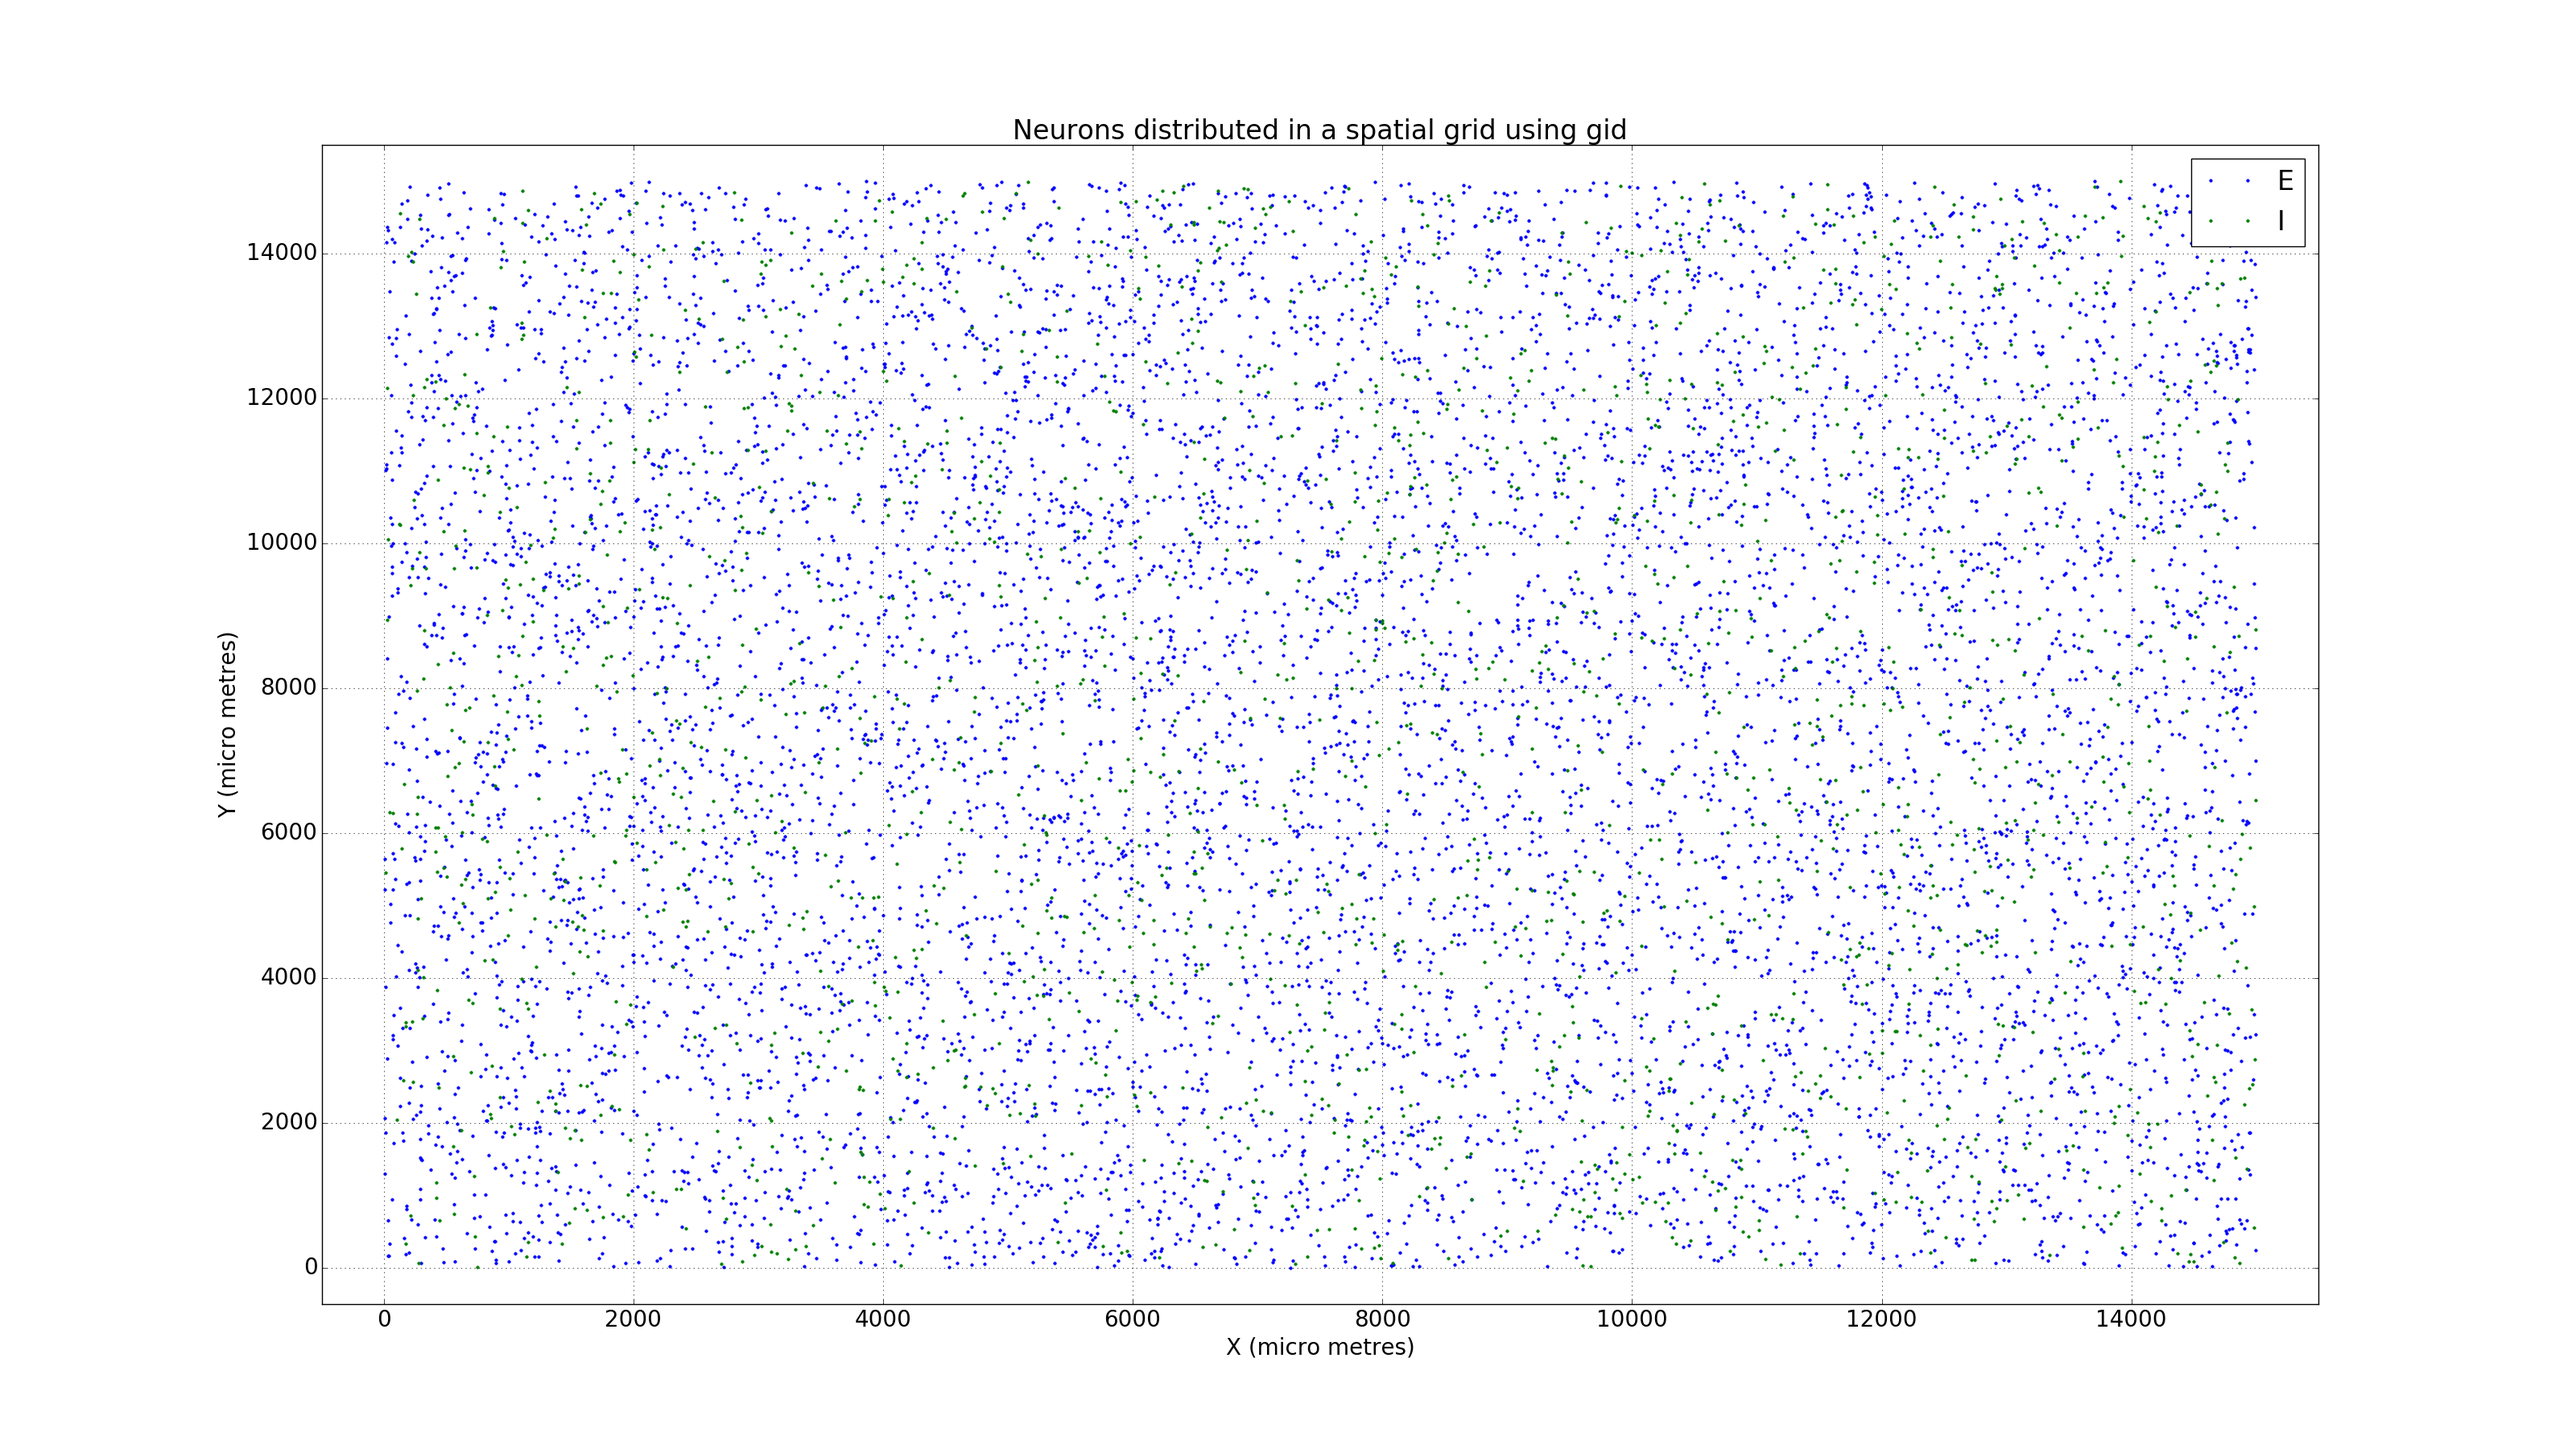
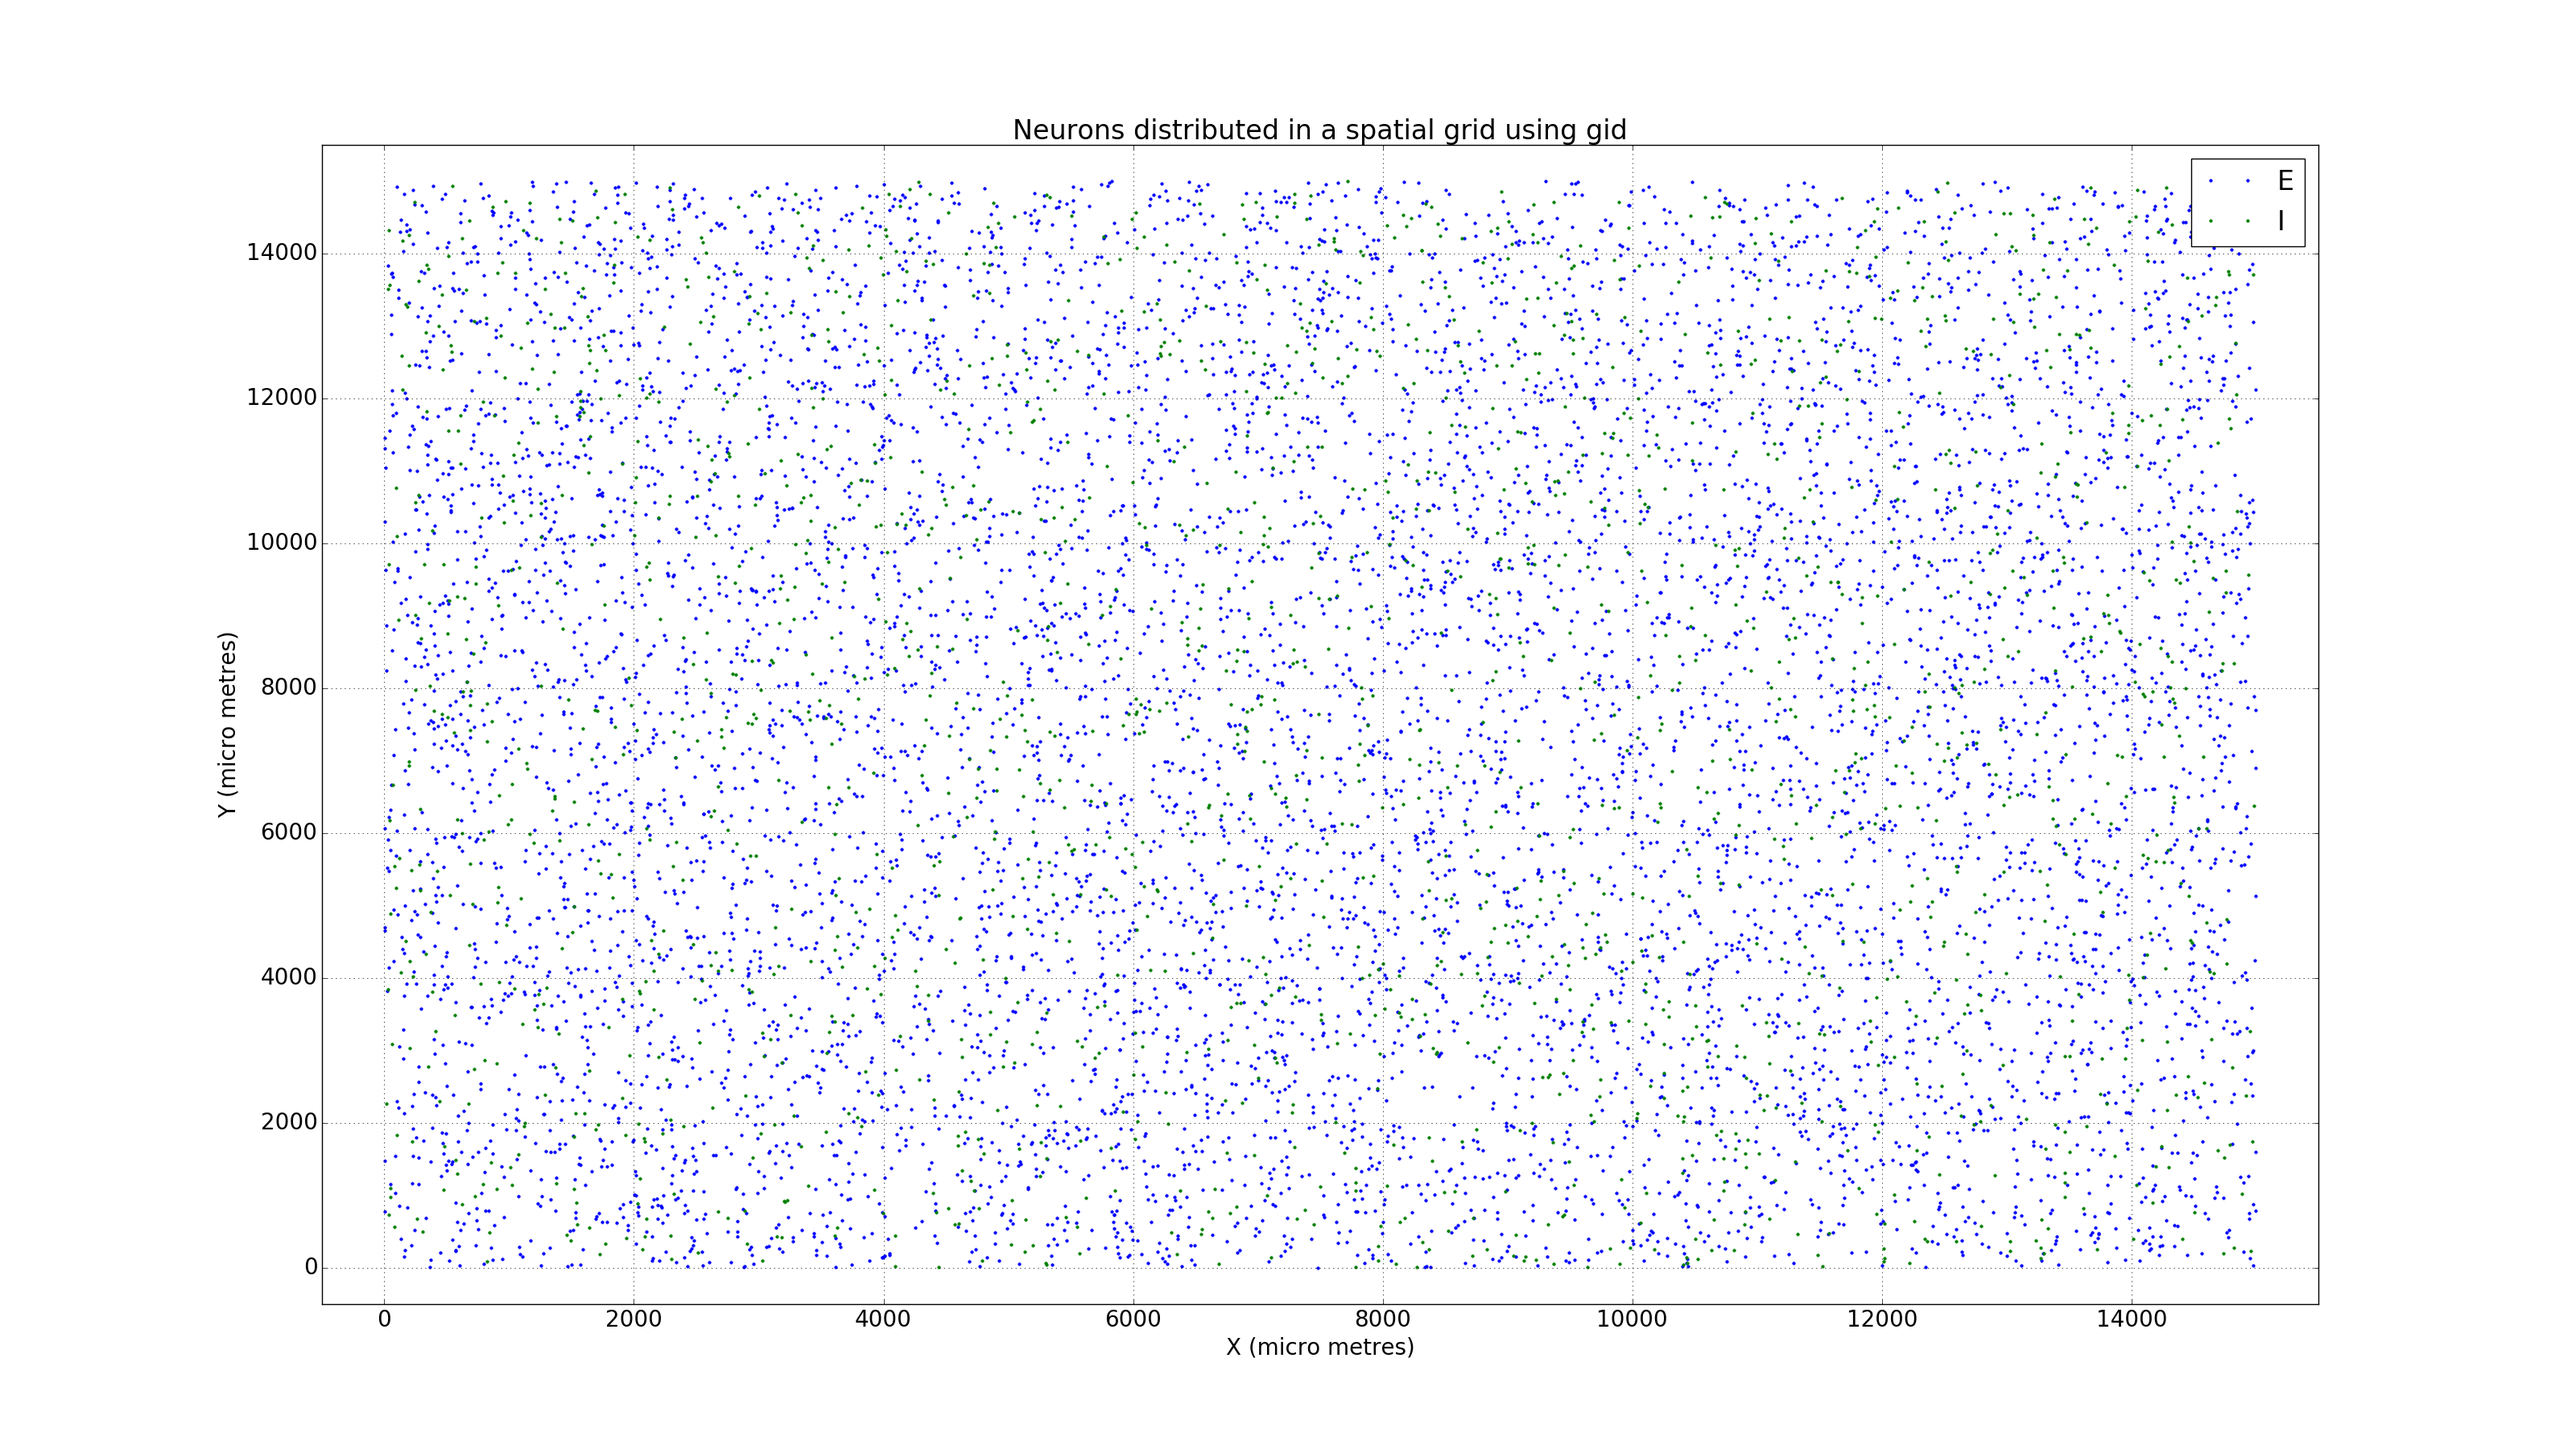
random.gauss is quicker than numpy.random.normal for this size of data

Changed region(s): [[0.1562, 0.1244, 0.875, 0.8711], [0.8125, 0.9022, 0.8438, 0.9333], [0.7188, 0.9022, 0.75, 0.9333]]

diff --git a/spatial/spatial.py b/spatial/spatial.py
@@ -46,19 +46,22 @@ def butz():
 
     locs = []
 
+    start = timer()
     for neuron in neuronsE:
-        yE = numpy.random.normal(
-            int((neuron - neuronsE[0])/colsE) * neuronal_distE, sd, 1)[0]
-        xE = numpy.random.normal(
-            ((neuron - neuronsE[0]) % colsE) * neuronal_distE, sd, 1)[0]
+        yE = random.gauss(
+            int((neuron - neuronsE[0])/colsE) * neuronal_distE, sd)
+        xE = random.gauss(
+            ((neuron - neuronsE[0]) % colsE) * neuronal_distE, sd)
         locs.append([xE, yE])
 
     for neuron in neuronsI:
-        yI = neuronal_distI/4 + numpy.random.normal(
-            int((neuron - neuronsI[0])/colsI) * neuronal_distI, sd, 1)[0]
-        xI = neuronal_distI/4 + numpy.random.normal(
-            ((neuron - neuronsI[0]) % colsI) * neuronal_distI, sd, 1)[0]
+        yI = neuronal_distI/4 + random.gauss(
+            int((neuron - neuronsI[0])/colsI) * neuronal_distI, sd)
+        xI = neuronal_distI/4 + random.gauss(
+            ((neuron - neuronsI[0]) % colsI) * neuronal_distI, sd)
         locs.append([xI, yI])
+    end = timer()
+    print("Locations with native random generator: {}".format(end - start))
 
     plotit(locs, "spatial-grid-butz.png")
     timetree(locs, "BUTZ")
